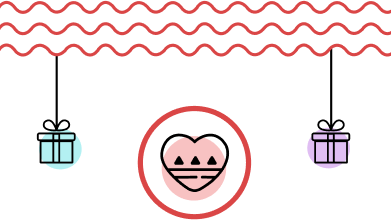
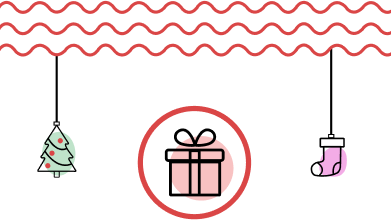
cadeaux

Changed region(s): [[0.399, 0.5727, 0.6138, 0.9273], [0.7673, 0.5455, 0.9207, 0.8182], [0.0921, 0.5455, 0.2148, 0.8182]]

diff --git a/src/components/AssignmentDisplay.jsx b/src/components/AssignmentDisplay.jsx
@@ -1,13 +1,16 @@
 // Il prend en props le tableau d'assignments
 export function AssignmentDisplay({ assignments }) {
   return (
-    <div>
+    <div className="flex flex-col justify-center items-center space-y-4">
       <img src="./Cadeaux.png" alt="Cadeaux" />
-      <ul className="space-y-2">
+      <h1 className="flex justify-center items-center mb-14  text-3xl font-title text-primary">
+        Attribution des cadeaux
+      </h1>
+      <ul className="mb-44 space-y-2">
         {assignments.map((assignment, index) => (
-          <li key={index}>
-            <span>{assignment.giver}</span> offre un beau cadeau à{" "}
-            <span>{assignment.receiver}</span>
+          <li className="flex justify-center items-center gap-8" key={index}>
+            <span className="font-text ">{assignment.giver}</span> <img className="pt-2" src="./offrir.png" alt="cadeau" />{" "}
+            <span className="font-text ">{assignment.receiver}</span>
           </li>
         ))}
       </ul>

diff --git a/src/App.jsx b/src/App.jsx
@@ -73,10 +73,10 @@ export default function App() {
         )}
         {currentScreen === "assignments" && (
           <>
-            
+
             <AssignmentDisplay assignments={assignments} />
-            <div className="mt-6">
-              <button className="button w-full" onClick={resetApp}>
+            <div className="flex justify-center mt-6">
+              <button className="button bg-primary font-title text-white pt-2 pr-16  pb-2 pl-16 rounded-3xl"  onClick={resetApp}>
                 Recommencer
               </button>
             </div>

diff --git a/src/components/ParticipantInput.jsx b/src/components/ParticipantInput.jsx
@@ -24,7 +24,7 @@ export function ParticipantInput({
 
   return (
     <div className="flex flex-col justify-center items-center space-y-4">
-      <img src="./Accueil.png" alt="accueil" />
+      <img src="./Participants.png" alt="Participants" />
 
       <h1 className="flex justify-center items-center mb-10 text-3xl font-title text-primary">
         Distribuer vos cadeaux
